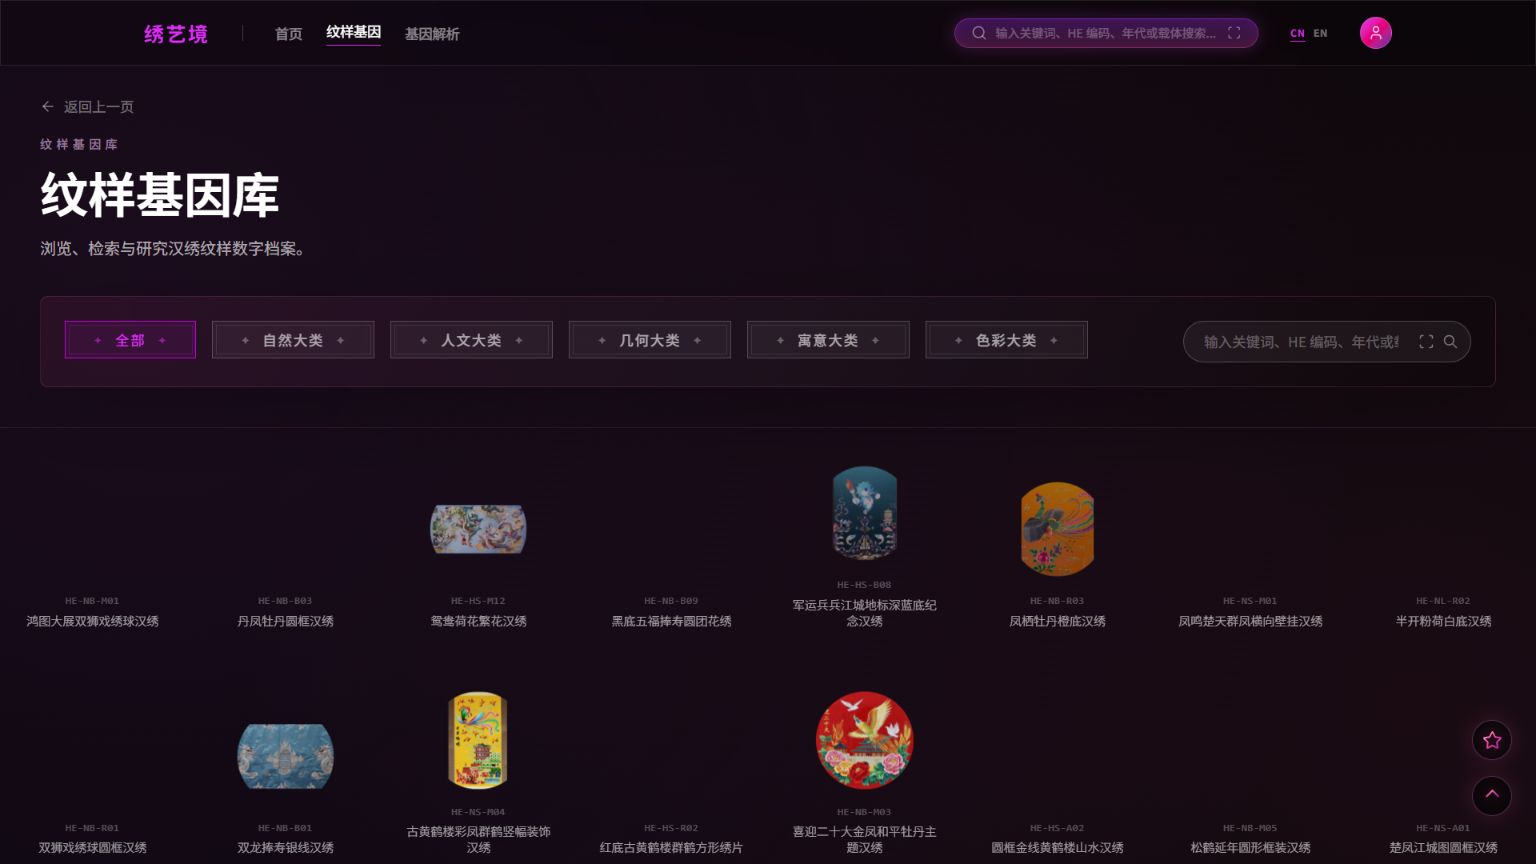
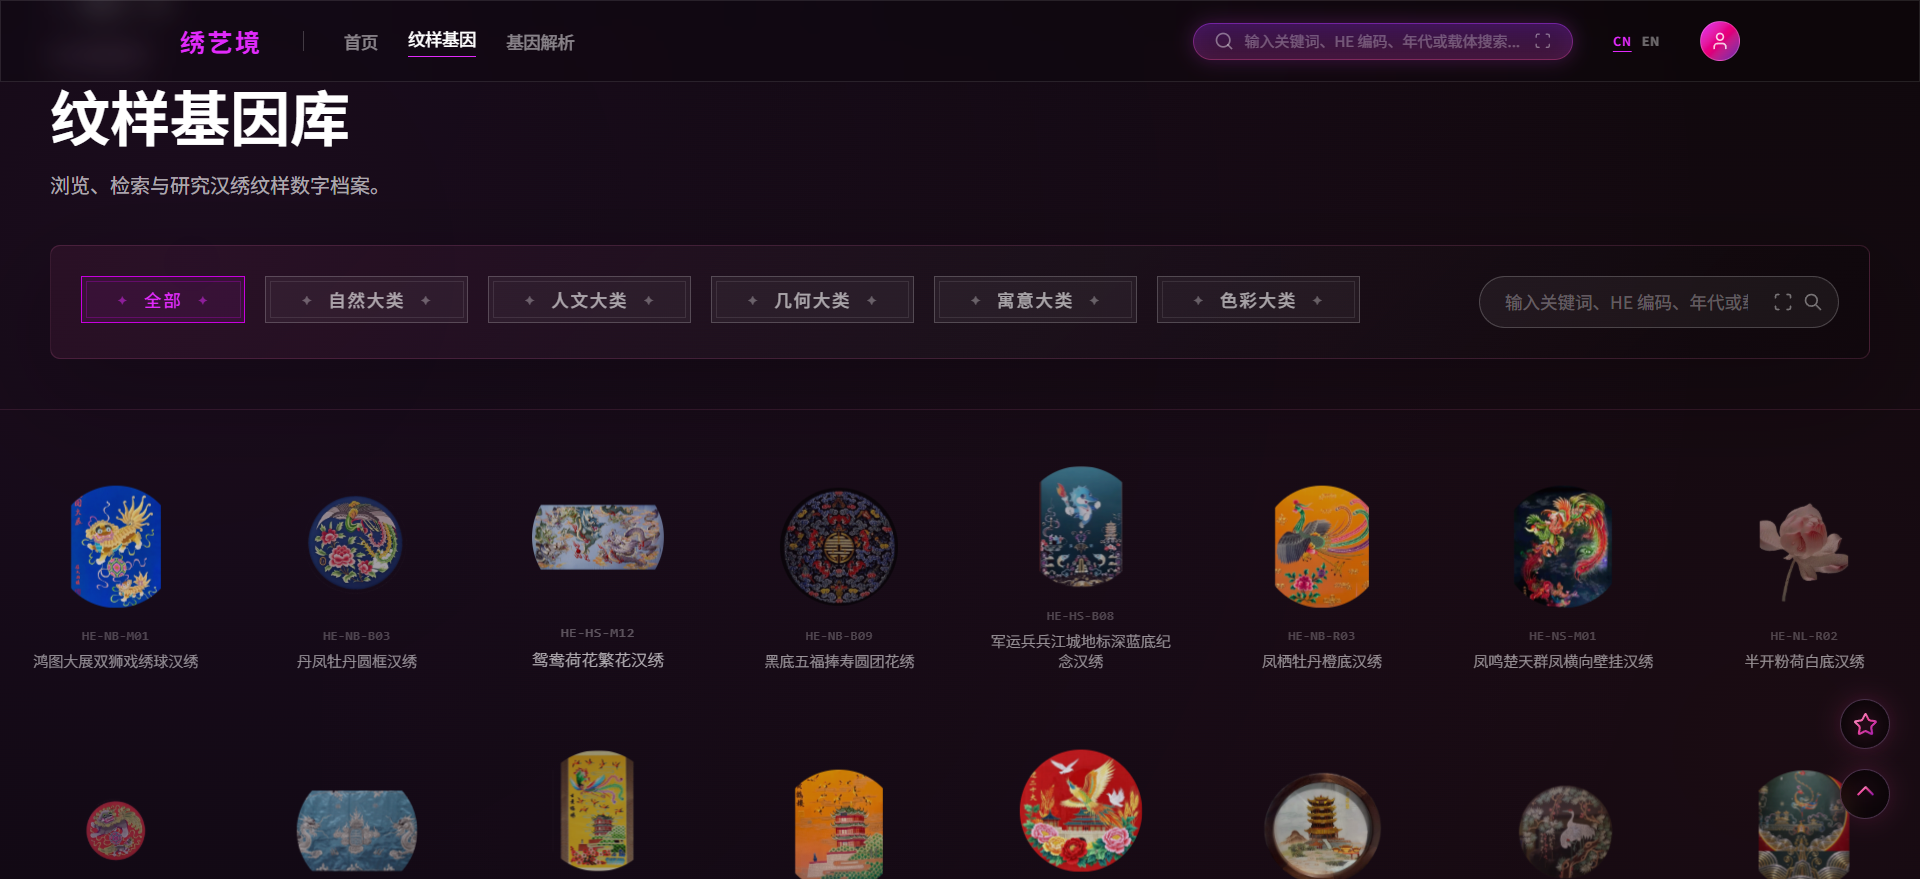
Update Xiuyijing presentation assets

diff --git a/src/data/portfolio.ts b/src/data/portfolio.ts
@@ -487,7 +487,7 @@ const xiuyijingProject: PortfolioProject = {
     "从概念策划到上线落地全流程统筹完成的汉绣纹样数字基因库，覆盖网页视觉、交互体验、前后端搭建、HE 编码体系、资料收集、图样整理、数据库建档与版权说明。平台收录汉绣纹样数字档案，并从题材、寓意、色彩、年代、载体、工艺与来源等维度建立可浏览、可检索、可解析的数字文化展示系统。项目网址：https://xiuyijing.vercel.app/",
   introEn:
     "A fully coordinated digital archive for Han embroidery patterns, covering web interface design, interaction, frontend and backend implementation, HE coding, source research, pattern organization, database structuring, and rights documentation. Project URL: https://xiuyijing.vercel.app/",
-  keywords: ["数字文化平台", "非遗数据库", "网页系统", "HE 编码", "资料整理"],
+  keywords: ["数字文化平台", "非遗数据库", "网页系统", "资料整理"],
   images: [
     {
       src: "/assets/portfolio-import-v2/aigc/project-xiuyijing/01-home-hero.png",
@@ -517,7 +517,7 @@ const xiuyijingProject: PortfolioProject = {
       caption: "纹样基因库横屏截图 / 纹样加载完成后截取",
       gridSpan: 12,
       fit: "contain",
-      layoutRatio: 1.78,
+      layoutRatio: 2.18,
     },
     {
       src: "/assets/portfolio-import-v2/aigc/project-xiuyijing/10-pattern-library-scroll.gif",

diff --git a/src/styles.css b/src/styles.css
@@ -1237,7 +1237,7 @@ button:focus-visible {
 .portfolio-screen.is-project-aigc-xiuyijing:not(.is-layout-editing) .artwork-flow > .artwork-frame.has-direct-layout {
   grid-column: 1 / -1;
   min-height: 0;
-  aspect-ratio: 16 / 9;
+  aspect-ratio: var(--artwork-ratio, 1.78);
 }
 
 .portfolio-screen.is-project-aigc-xiuyijing:not(.is-layout-editing) .artwork-flow > .artwork-frame img,